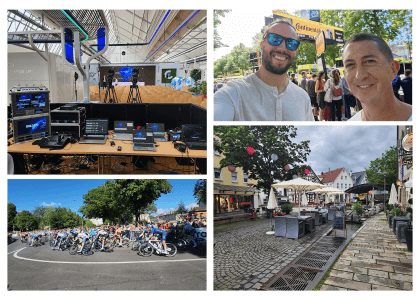
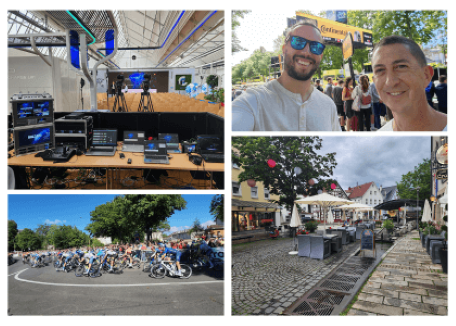
blog layout and spacing

diff --git a/app/lib/blogPostData.js b/app/lib/blogPostData.js
@@ -132,8 +132,8 @@ export const blogPosts = [
     title: "A Note from Tom",
     post_date: "7/18/2024",
     image_src: "/images/blog-page/blog-post-images/germanyCollage.png",
-    image_width: 420,
-    image_height: 300,
+    image_width: 456,
+    image_height: 326,
     image_alt: "A collage of images from Tom's trip to Germany and France",
     text: [
       "Travel is in MMM's DNA, and this month Mike and I were able to add two new countries to the list: Germany and France. We are fortunate to have the trust of our clients that allows us to explore the globe, and we are grateful for the opportunity.",
@@ -164,7 +164,7 @@ export const blogPosts = [
     post_date: "2024-5-8",
     image_src: "/images/blog-page/blog-post-images/05-08-2024.png",
     image_width: 456,
-    image_height: 4342,
+    image_height: 342,
     image_alt: "Welcome to Ohio sign on a bridge overpass viewed from the dashboard of a car",
     text: [
       "Hello and thank you for reading my blogpost! I'm Phillip, a passionate videographer and editor with Mike Martin Media. I recently embarked on a memorable work trip to Dayton, Ohio. Dayton greeted us with open arms. Although the weather was bitter cold, the welcome from our client and the town was warm. This wasn't just a business trip; it was the beginning of a story waiting to be told through our lenses.",

diff --git a/app/ui/blogPostGallery.js b/app/ui/blogPostGallery.js
@@ -27,9 +27,9 @@ export default function BlogPostGallery({ number_of_posts }) {
   const currentPosts = blogPosts.slice(startIndex, endIndex);
 
   return (
-    <div className="flex justify-center">
-      <div className="grid grid-cols-1 max-w-800" ref={galleryRef}>
-        <div className="grid grid-cols-1 lg:grid-cols-3">
+    <div className="flex justify-center p-6">
+      <div className="grid grid-cols-1 max-w-600" ref={galleryRef}>
+        <div className="grid grid-cols-1 md:grid-cols-2 xl:grid-cols-3 gap-2">
           {currentPosts.map((post, index) => (
             <BlogPost
               key={index}

diff --git a/app/ui/pageHeadingBanner.js b/app/ui/pageHeadingBanner.js
@@ -1,6 +1,6 @@
 export default function PageHeadingBanner({ title, heading, text }) {
   return (
-    <div className="bg-black text-white flex justify-center py-2">
+    <div className="bg-black text-white flex justify-center">
       <div className="bg-black text-white w-full h-auto flex grid grid-cols-1 md:grid-cols-2 max-w-1000 my-5">
         <div className="flex flex-col justify-center  px-12 lg:ml-28 xl:ml-32 ">
           <h1 className="mb-2 text-xs sm:text-sm font-semibold">
